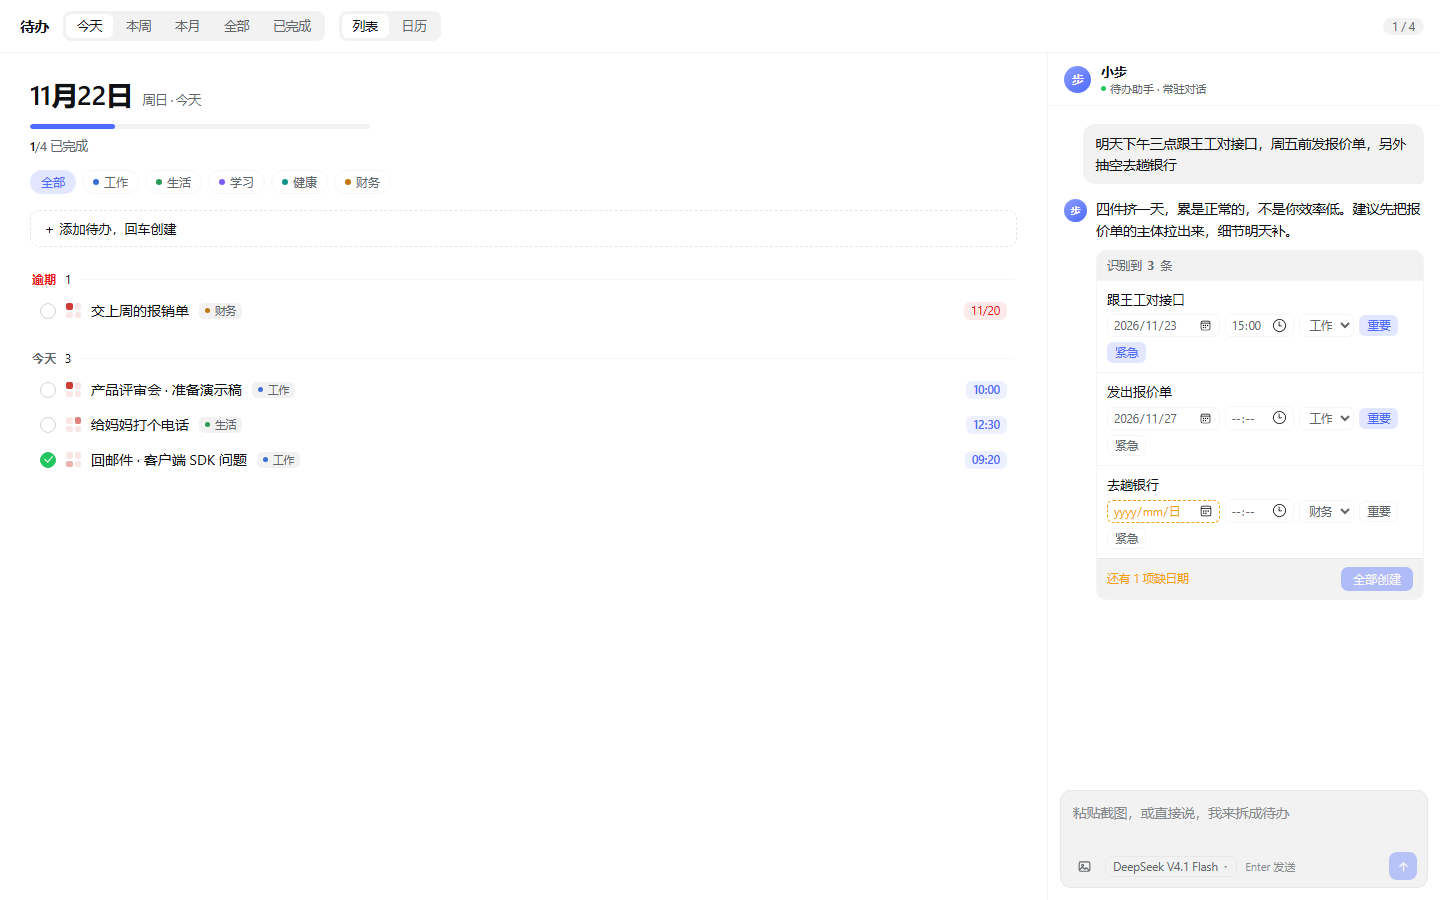
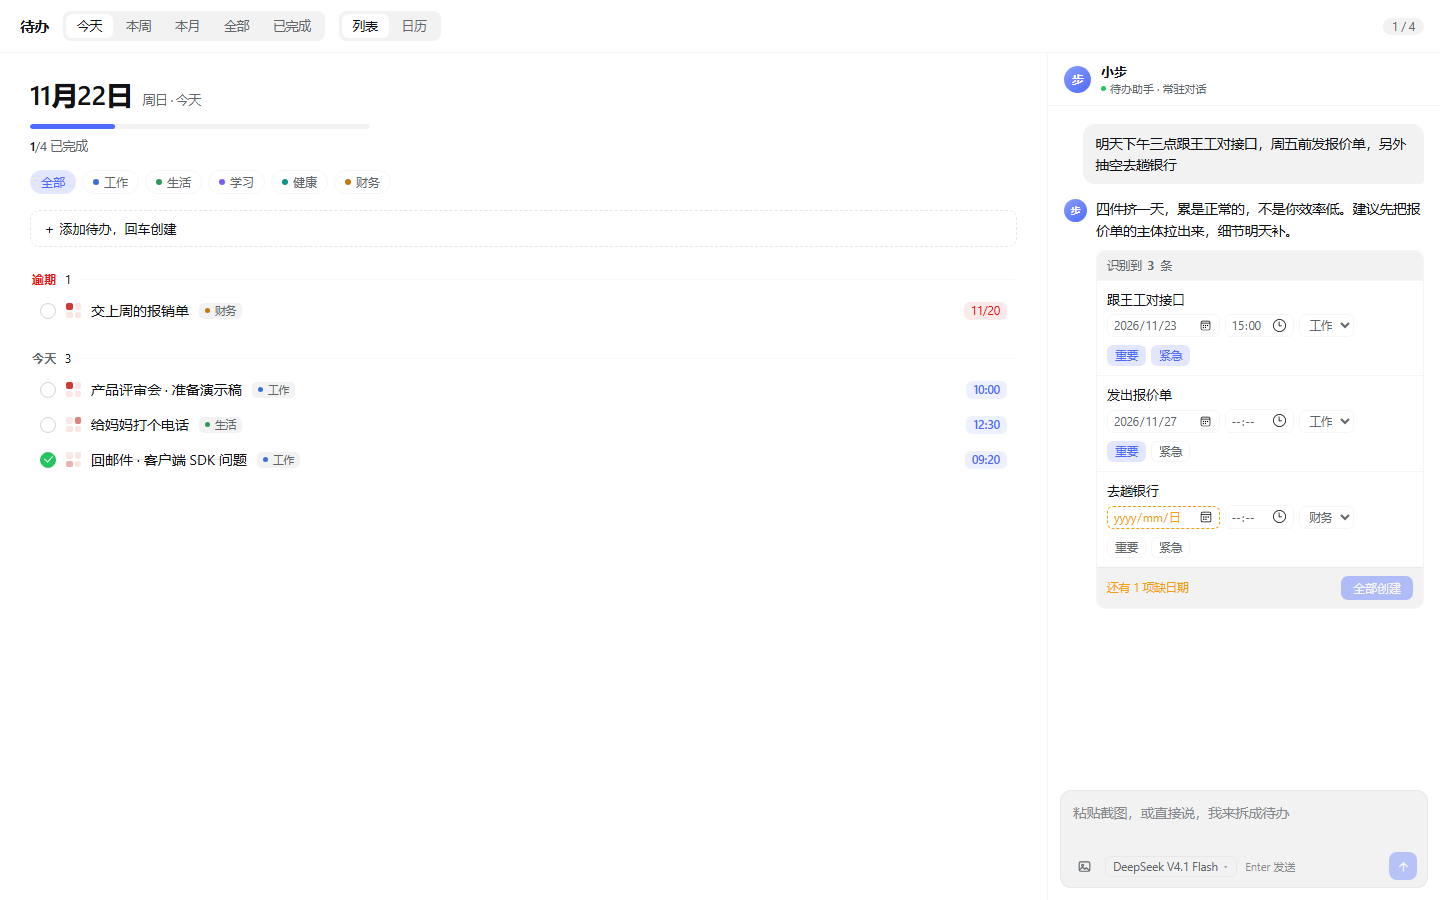
polish: 草案卡字段两行布局、清理死代码
- 重要/紧急 固定到独立一行，避免 392px 面板内随机折行
- 删除已不再使用的 partialTasks / needsSummary

diff --git a/bundle/client.js b/bundle/client.js
@@ -90,6 +90,10 @@ window.__ModuleLoader__.load({
 .todo-draft-title{width:100%;border:none;background:none;font-family:inherit;font-size:13px;color:var(--dsw-alias-label-primary);outline:none;padding:0 0 6px}
 .todo-draft-fields{display:flex;flex-wrap:wrap;gap:5px;align-items:center}
 .todo-field{border:1px solid var(--dsw-alias-border-l1);border-radius:6px;background:none;font-family:inherit;font-size:11.5px;color:var(--dsw-alias-label-secondary);padding:2px 5px;outline:none;max-width:120px}
+.todo-draft-flags{display:flex;gap:5px;width:100%;margin-top:3px}
+.todo-field[type="date"]{max-width:106px}
+.todo-field[type="time"]{max-width:68px}
+select.todo-field{max-width:62px}
 .todo-field:focus{border-color:var(--td-accent-ring)}
 .todo-field[data-miss="1"]{border-color:var(--dsw-alias-state-warn-primary);border-style:dashed;color:var(--dsw-alias-state-warn-primary)}
 .todo-toggle{display:inline-flex;align-items:center;gap:4px;font-size:11.5px;color:var(--dsw-alias-label-secondary);border:1px solid var(--dsw-alias-border-l1);border-radius:6px;padding:2px 7px;cursor:pointer;background:none;font-family:inherit}
@@ -285,30 +289,8 @@ window.__ModuleLoader__.load({
       }
     }
 
-    /** 从流式累积文本里捞出已完整的 task 对象，用于渐进渲染 */
-    function partialTasks(text) {
-      const out = [];
-      const anchor = text.indexOf('"tasks"');
-      if (anchor < 0) return out;
-      const start = text.indexOf('[', anchor);
-      if (start < 0) return out;
-      let depth = 0;
-      let objStart = -1;
-      for (let i = start + 1; i < text.length; i++) {
-        const c = text[i];
-        if (c === '{') { if (depth === 0) objStart = i; depth += 1; }
-        else if (c === '}') {
-          depth -= 1;
-          if (depth === 0 && objStart >= 0) {
-            try { out.push(JSON.parse(text.slice(objStart, i + 1))); } catch (e) { /* 未完成 */ }
-            objStart = -1;
-          }
-        }
-      }
-      return out;
-    }
-
-    const PERIODS = [      { id: 'today', label: '今天', kinds: ['overdue', 'today'] },
+    const PERIODS = [
+      { id: 'today', label: '今天', kinds: ['overdue', 'today'] },
       { id: 'week', label: '本周', kinds: ['overdue', 'today', 'week'] },
       { id: 'month', label: '本月', kinds: ['overdue', 'today', 'week', 'later'] },
       { id: 'all', label: '全部', kinds: null },
@@ -381,14 +363,15 @@ window.__ModuleLoader__.load({
               className: 'todo-field', value: it.tag, disabled: !ready,
               onChange: (e) => patch(i, 'tag', e.target.value),
             }, ...Object.entries(TAG_META).map(([k, v]) => h('option', { key: k, value: k }, v.name))),
-            h('button', {
-              className: 'todo-toggle', 'data-on': it.important ? '1' : '0',
-              disabled: !ready, onClick: () => patch(i, 'important', !it.important),
-            }, '重要'),
-            h('button', {
-              className: 'todo-toggle', 'data-on': it.urgent ? '1' : '0',
-              disabled: !ready, onClick: () => patch(i, 'urgent', !it.urgent),
-            }, '紧急'),
+            h('div', { className: 'todo-draft-flags' },
+              h('button', {
+                className: 'todo-toggle', 'data-on': it.important ? '1' : '0',
+                disabled: !ready, onClick: () => patch(i, 'important', !it.important),
+              }, '重要'),
+              h('button', {
+                className: 'todo-toggle', 'data-on': it.urgent ? '1' : '0',
+                disabled: !ready, onClick: () => patch(i, 'urgent', !it.urgent),
+              }, '紧急')),
           ),
         )),
         ready

diff --git a/bundle/lib/chat.js b/bundle/lib/chat.js
@@ -116,9 +116,4 @@ export function visibleText(text) {
   return tidy(raw);
 }
 
-/** 判断是否需要压缩历史 */
-export function needsSummary(messages, summary, limit = 24) {
-  if (messages.length <= limit) return false;
-  if (summary && summary.upto >= messages.length - limit) return false;
-  return true;
-}
+/** 判断是否需要压缩历史（路由侧直接比长度，这里留给将来的细粒度策略） */
